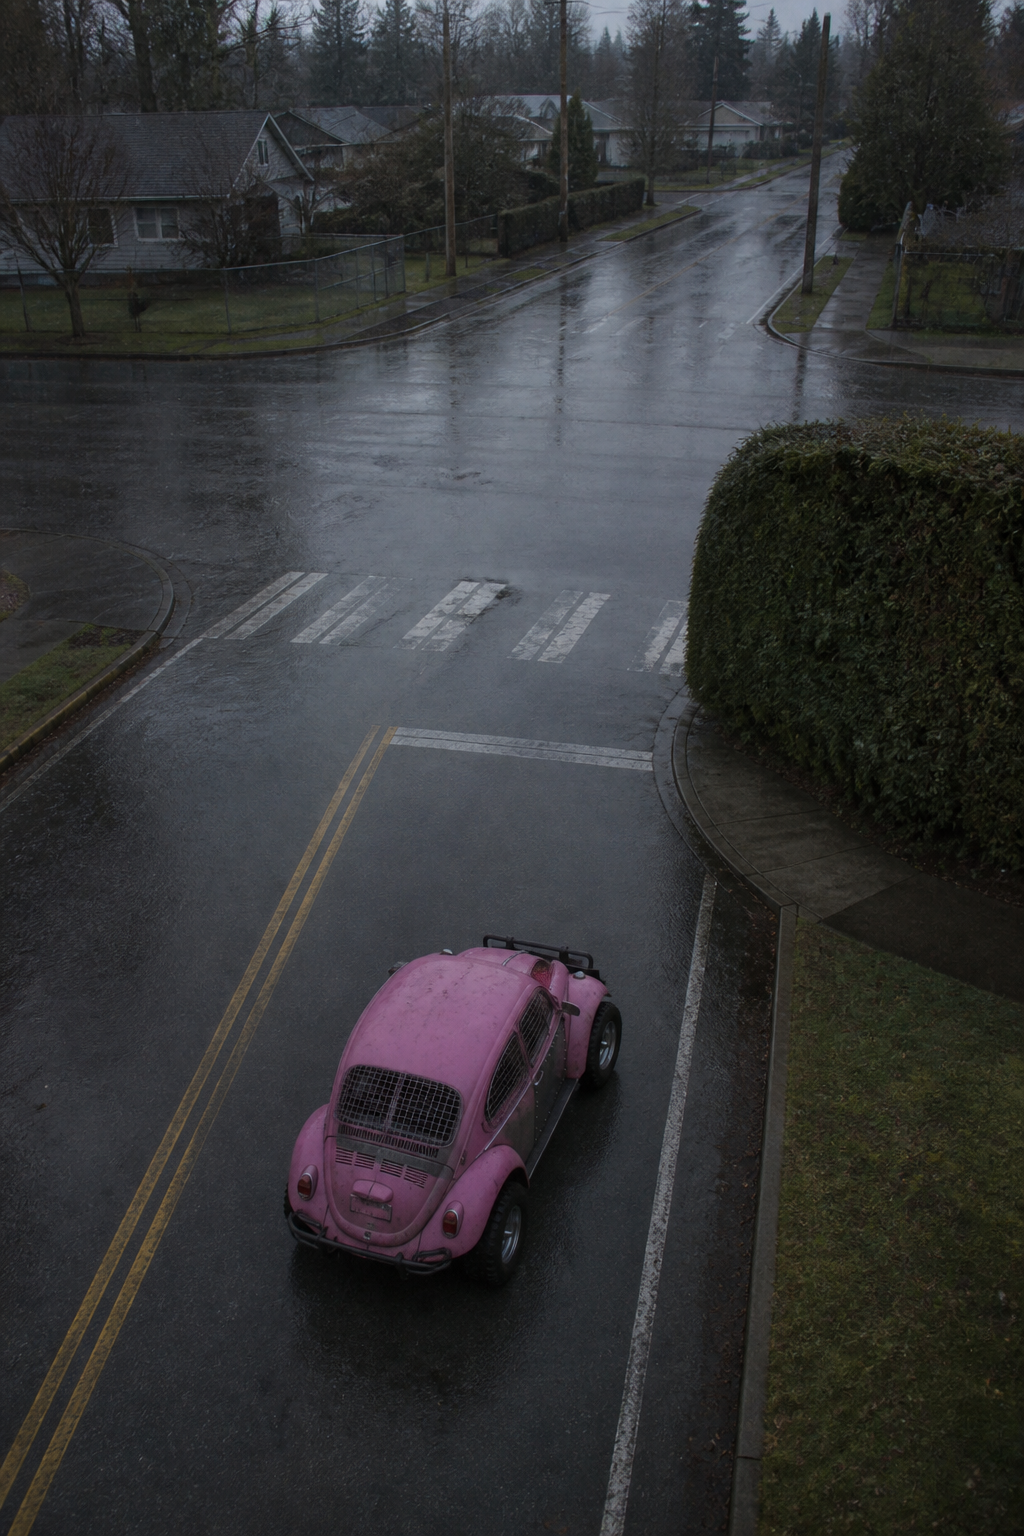
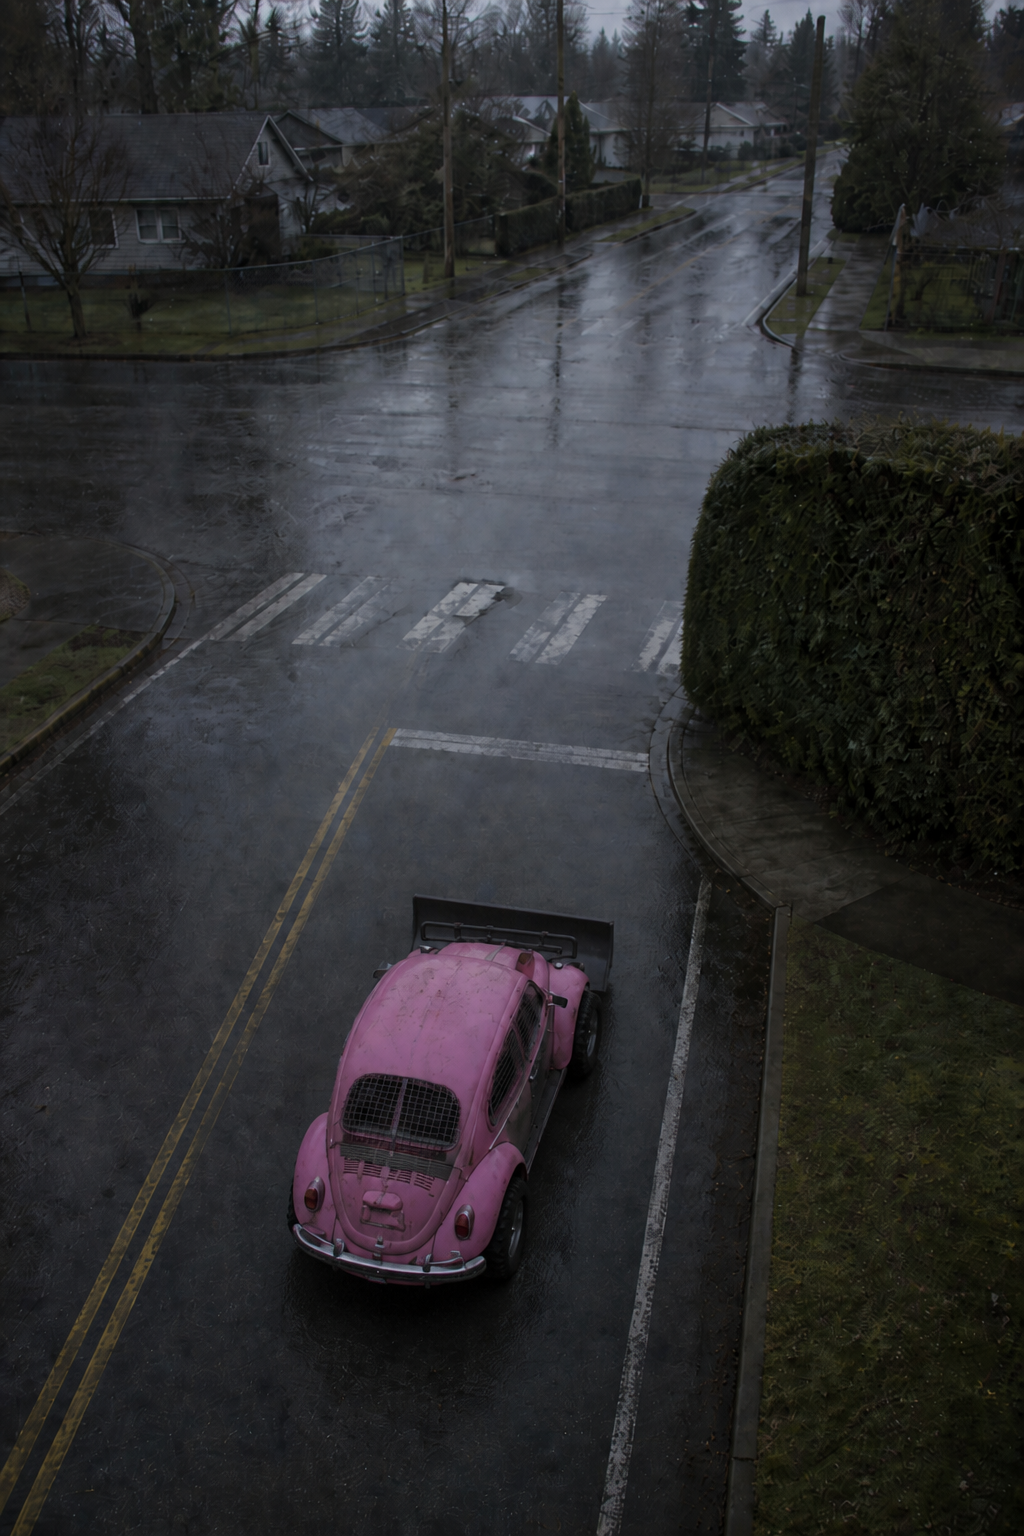
Put the plow back on the nose of II-015.
The hedge turn is longer because the blade is on the front — it has to be in the picture.

diff --git a/src/game.js b/src/game.js
@@ -150,7 +150,7 @@ function sceneFragment(scene) {
 }
 
 function imageUrl(cardId) {
-  return "/api/run/image/" + encodeURIComponent(cardId) + "?v=a9";
+  return "/api/run/image/" + encodeURIComponent(cardId) + "?v=a10";
 }
 
 function cargoFrom(state) {
